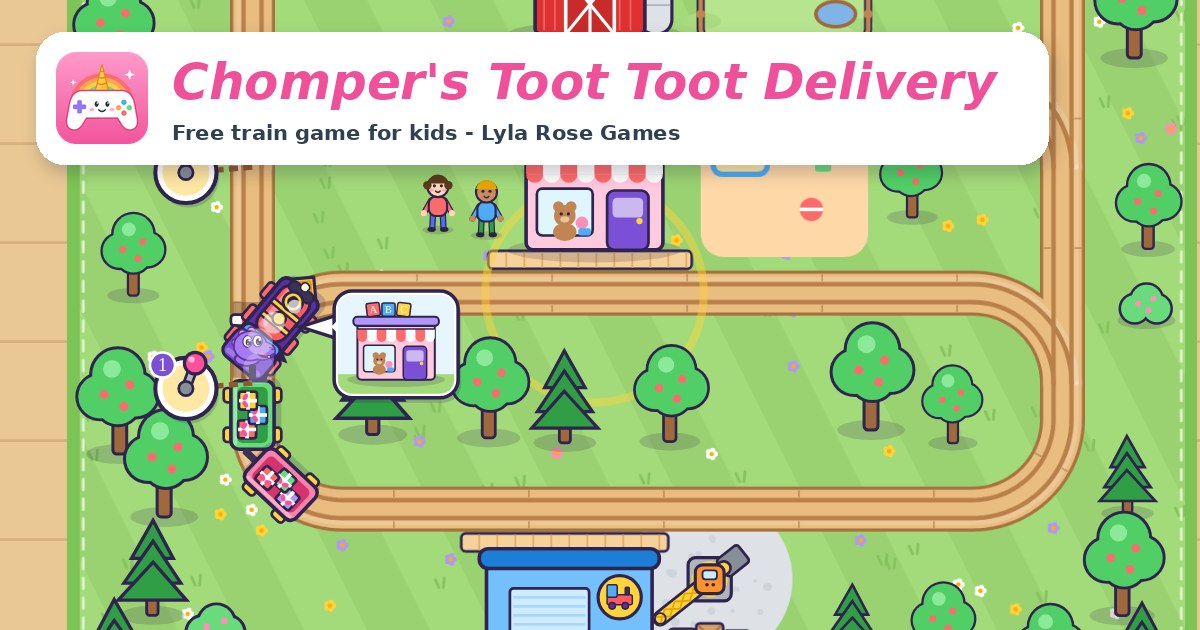
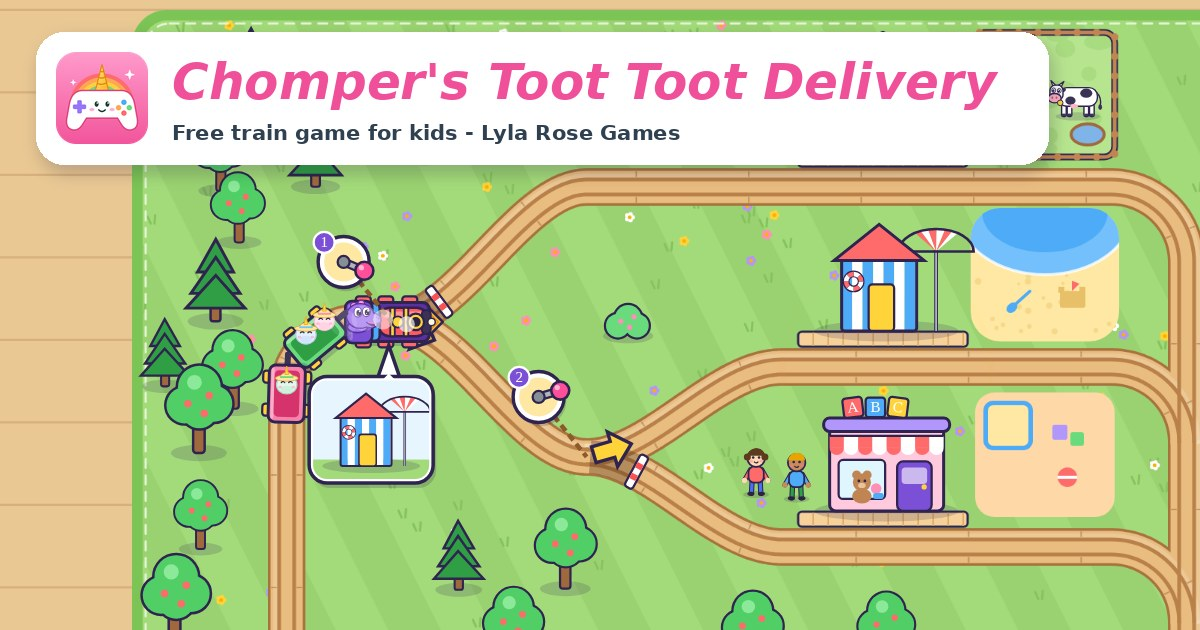
ok

diff --git a/games/chompers-toot-toot/index.html b/games/chompers-toot-toot/index.html
@@ -454,13 +454,18 @@
     bakery: {name: 'Bakery',        cargo: 'Flour',         word: 'Yum!'},
     build:  {name: 'Building Site', cargo: 'Bricks',        word: 'Beep beep!'}
   };
-  // lane 0 is the one furthest from the depot. The first switch the train meets sends it to the last lane.
+  // Each map is a little tree of switches: [up, down] pairs, with a station at the end of every branch.
+  // Stations are listed top to bottom (the "lanes"). Deeper stations need two or three switches set right.
+  const DXB = 260;                              // how far apart the switches are along the track
   const MAPS = [
-    {name: 'Little Loop',    icon: '🐄', lanes: ['farm', 'toys'], L: 860, ex: 0, total: 6},
-    {name: 'Farm and Beach', icon: '🏖', lanes: ['beach', 'farm', 'toys'], L: 900, ex: 0, total: 6},
-    {name: 'Busy Town',      icon: '🚗', lanes: ['zoo', 'beach', 'farm', 'toys'], L: 960, ex: 80, total: 7, crossing: true},
-    {name: 'Big Railway',    icon: '🌉', lanes: ['build', 'bakery', 'zoo', 'beach', 'farm', 'toys'], L: 1060, ex: 160, total: 8, crossing: true, river: true, tunnel: true}
+    {name: 'Little Loop',    icon: '🐄', tree: ['farm', 'toys'], ex: 0, total: 4},
+    {name: 'Farm and Beach', icon: '🏖', tree: ['farm', ['beach', 'toys']], ex: 0, total: 6},
+    {name: 'Busy Town',      icon: '🚗', tree: [['zoo', 'beach'], ['farm', 'toys']], ex: 80, total: 7, crossing: true},
+    {name: 'Big Railway',    icon: '🌉', tree: [[['build', 'bakery'], 'zoo'], ['beach', ['farm', 'toys']]], ex: 120, total: 8, crossing: true, river: true, tunnel: true}
   ];
+  const leavesOf = t => Array.isArray(t) ? t.flatMap(leavesOf) : [t];
+  const depthOf = t => Array.isArray(t) ? 1 + Math.max(...t.map(depthOf)) : 0;
+  MAPS.forEach(M => { M.lanes = leavesOf(M.tree); M.L = 680 + depthOf(M.tree)*DXB; });
   const UL = 206, R = 100, LG = 240, TOP = 236, STEP = 6;
 
   // The track is drawn in "flat" coordinates (u along the lanes, v across them) and then turned to
@@ -478,6 +483,12 @@
         for(let i = 1; i <= n; i++){ const t = i/n*Math.PI/2; pts.push([cx + R*Math.cos(a0 + dir*t), cy + R*Math.sin(a0 + dir*t)]); }
         h += dir*Math.PI/2; u = cx + R*Math.cos(a0 + dir*Math.PI/2); v = cy + R*Math.sin(a0 + dir*Math.PI/2); return P;
       },
+      // a smooth S-bend: forwards du while shifting sideways dv (only used heading along +u)
+      bend(du, dv){
+        const u0 = u, v0 = v, n = Math.max(8, Math.round(Math.hypot(du, dv)*1.15/STEP));
+        for(let i = 1; i <= n; i++){ const t = i/n, a = 3*t*t - 2*t*t*t; pts.push([u0 + du*t, v0 + dv*a]); }
+        u += du; v += dv; return P;
+      },
       pts
     };
     return P;
@@ -494,36 +505,55 @@
     const T = (u, v) => land ? {x: v, y: u} : {x: u, y: v};
     const lay = {mi, n, land, screenLand, WW: land ? Hab : Wab, WH: land ? Wab : Hab, edges: [], nodes: [], switches: [], stations: [], T, UL, UR, VB, vl};
     const node = (id, u, v) => { const p = T(u, v); const nd = {id, x: p.x, y: p.y, outs: []}; lay.nodes[id] = nd; return nd; };
-    // nodes: J(i) are the switches up the left side, M(i) are where the lanes join up on the right
-    const J = i => 'J' + i, Mg = i => 'M' + i;
-    for(let i = 1; i < n; i++){ node(J(i), UL, vl(i) + R); node(Mg(i), UR, vl(i) + R); }
     const edge = (id, path, to, kind, lane) => {
       const pa = path.pts, pts = pa.map(([u, v]) => T(u, v)), cum = [0];
       for(let i = 1; i < pts.length; i++) cum.push(cum[i - 1] + Math.hypot(pts[i].x - pts[i - 1].x, pts[i].y - pts[i - 1].y));
       const e = {id, pa, pts, cum, len: cum[cum.length - 1], to, kind, lane};
       lay.edges[id] = e; return e;
     };
-    const drop = (vl(n - 1) + R), bot = VB - R;
-    edge('trunk', makePath(UR, drop, Math.PI/2).line(bot - drop).arc(1).line(L - 2*R).arc(1).line(bot - drop), J(n - 1), 'trunk');
-    for(let i = n - 1; i >= 2; i--) edge('colL' + i, makePath(UL, vl(i) + R, -Math.PI/2).line(LG), J(i - 1), 'col');
-    for(let i = n - 1; i >= 1; i--) edge('lane' + i, makePath(UL, vl(i) + R, -Math.PI/2).arc(1).line(L - 2*R).arc(1), Mg(i), 'lane', i);
-    edge('lane0', makePath(UL, vl(1) + R, -Math.PI/2).line(LG).arc(1).line(L - 2*R).arc(1).line(LG), Mg(1), 'lane', 0);
+    // the lanes join up again on the right (M nodes), then run down and back along the bottom
+    const Mg = i => 'M' + i;
+    for(let i = 1; i < n; i++) node(Mg(i), UR, vl(i) + R);
     for(let i = 1; i <= n - 2; i++) edge('colR' + i, makePath(UR, vl(i) + R, Math.PI/2).line(LG), Mg(i + 1), 'col');
-    for(let i = 1; i < n; i++){
-      lay.nodes[J(i)].outs = i >= 2 ? ['colL' + i, 'lane' + i] : ['lane0', 'lane1'];
-      lay.nodes[Mg(i)].outs = i <= n - 2 ? ['colR' + i] : ['trunk'];
-    }
-    // the switches, numbered in the order the train meets them
-    for(let i = n - 1; i >= 1; i--){
-      const k = n - i, nd = lay.nodes[J(i)], lv = T(UL - 74, vl(i) + R + 6);
-      nd.sw = k - 1;
+    for(let i = 1; i < n; i++) lay.nodes[Mg(i)].outs = i <= n - 2 ? ['colR' + i] : ['trunk'];
+    // the switch tree: each switch splits into an upper and a lower branch with smooth S-bends
+    const u0 = UL + R + 40, laneEnd = UR - R;
+    let leafI = 0;
+    const place = t => { if(!Array.isArray(t)) return {leaf: t, row: leafI++}; const kids = t.map(place); return {kids, v: 0}; };
+    const root = place(M.tree);
+    const vOf = nd => nd.kids ? (nd.v = (vOf(nd.kids[0]) + vOf(nd.kids[1]))/2) : vl(nd.row);
+    vOf(root);
+    // number the switches in the order the train can meet them (nearest first)
+    const bfs = [root]; for(let i = 0; i < bfs.length; i++) if(bfs[i].kids) bfs[i].kids.forEach(c => c.kids && bfs.push(c));
+    bfs.forEach((nd, i) => { nd.id = 'J' + i; nd.k = i + 1; });
+    const depth = (nd, d) => { nd.d = d; if(nd.kids) nd.kids.forEach(c => depth(c, d + 1)); };
+    depth(root, 0);
+    bfs.forEach(nd => node(nd.id, u0 + nd.d*DXB, nd.v));
+    bfs.forEach(nd => {
+      const us = u0 + nd.d*DXB;
+      nd.kids.forEach(c => {
+        const p = makePath(us, nd.v, 0).bend(DXB, (c.kids ? c.v : vl(c.row)) - nd.v);
+        if(c.kids){ edge('br' + c.id, p, c.id, 'col'); lay.nodes[nd.id].outs.push('br' + c.id); return; }
+        const k = c.row;
+        p.line(laneEnd - (us + DXB)).arc(1);
+        if(k === 0 && n > 1) p.line(LG);
+        edge('lane' + k, p, Mg(Math.max(1, k)), 'lane', k);
+        lay.nodes[nd.id].outs.push('lane' + k);
+      });
+    });
+    const drop = (vl(n - 1) + R), bot = VB - R;
+    edge('trunk', makePath(UR, drop, Math.PI/2).line(bot - drop).arc(1).line(L - 2*R).arc(1).line(bot - (root.v + R)).arc(1).line(u0 - UL - R), root.id, 'trunk');
+    // the switches, each with its lever just behind and above the points
+    bfs.forEach((b, i) => {
+      const nd = lay.nodes[b.id], lv = T(u0 + b.d*DXB - 64, b.v - 80);
+      nd.sw = i;
       const outs = nd.outs.map(id => { const e = lay.edges[id], p = posAt(e, 70); return {id, a: Math.atan2(p.y - nd.y, p.x - nd.x)}; });
-      lay.switches.push({k, node: J(i), lane: i, x: nd.x, y: nd.y, lx: lv.x, ly: lv.y, outs});
-    }
+      lay.switches.push({k: b.k, node: b.id, x: nd.x, y: nd.y, lx: lv.x, ly: lv.y, outs});
+    });
     // where along an edge the track passes a point (u, v)
     const sAt = (e, u, v) => { let best = 0, bd = 1e9; e.pa.forEach(([a, b], i) => { const d = Math.hypot(a - u, b - v); if(d < bd){ bd = d; best = e.cum[i]; } }); return best; };
     // stations: one in the middle of each lane, with a platform, a yard and its building
-    const ust = UL + R + (L - 2*R)*0.40;
+    const ust = UR - R - 300;
     M.lanes.forEach((id, i) => {
       const e = lay.edges['lane' + i], v = vl(i);
       const base = land ? {x: v - 118, y: ust + 76} : {x: ust, y: v - 48};
@@ -1792,7 +1822,7 @@
   function St(g){ g.setTransform(PX, 0, 0, PX, 0, 0); }
   const fitK = () => Math.min(CW/LY.WW, CH/LY.WH)*0.97;
   const phoneK = () => clamp(Math.min(CW, CH)/700, 0.45, 0.8);
-  const followMode = () => fitK() < 0.42;
+  const followMode = () => fitK() < 0.36;
   function viewRect(){ const a = toWorld(0, 0), b = toWorld(CW, CH); return {x0: a.x, y0: a.y, x1: b.x, y1: b.y}; }
   function onScreen(x, y, m = 0){ const X = sx(x), Y = sy(y); return X > -m && X < CW + m && Y > -m && Y < CH + m; }
   let camLock = null;
@@ -1819,7 +1849,11 @@
     cam.x = hw*2 >= LY.WW + M*2 ? LY.WW/2 : clamp(cam.x, hw - M, LY.WW + M - hw);
     cam.y = hh*2 >= LY.WH + M + Mt ? LY.WH/2 + (M - Mt)/2 : clamp(cam.y, hh - Mt, LY.WH + M - hh);
     // keep the panning in step with where the camera can actually go
-    if(followMode()){ pan.x = clamp(pan.x, cam.x - camBase.x - 400, cam.x - camBase.x + 400); pan.y = clamp(pan.y, cam.y - camBase.y - 400, cam.y - camBase.y + 400); }
+    if(followMode()){
+      const x0 = hw - M, x1 = LY.WW + M - hw, y0 = hh - Mt, y1 = LY.WH + M - hh;
+      if(x1 > x0) pan.x = clamp(pan.x, x0 - camBase.x, x1 - camBase.x);
+      if(y1 > y0) pan.y = clamp(pan.y, y0 - camBase.y, y1 - camBase.y);
+    }
   }
 
   // ===== DRAW EVERYTHING =====

diff --git a/games-data.js b/games-data.js
@@ -214,6 +214,7 @@ const games = [
     emoji: "🚂",
     colour: "#D6EEFF",
     thumb: "thumb.jpg",
+    thumbAnim: "thumb-anim.svg",   // gently moving card picture (made from thumb.jpg)
     blurb: "Flick the switches on a toy train set so Chomper's steam train takes milk, toys, bananas and baby unicorns to the right station!",
     categories: ["trains", "dinosaurs", "puzzles"],
     controls: "Tap the switches or keys 1-5, Space to stop and go"

diff --git a/tools/moving-thumbs.py b/tools/moving-thumbs.py
@@ -203,3 +203,12 @@ p.bob(452,448,106,90,dy=-2,dur=.4,delay=.15)
 p.bob(503,268,44,52,dy=-4,dur=.9)
 p.star(300,240,10); p.star(700,470,10,.9); p.star(80,260,9,1.6); p.star(560,90,9,1.2)
 print('building site', p.save())
+
+p=Pic('chompers-toot-toot','steam puffs from the engine, a bobbing delivery bubble, a bouncing arrow, waving kids, a mooing cow and sparkles')
+for d in (0,1.2,2.4): p.add(f'<circle class="puff" style="--l:{d}s" cx="352" cy="228" r="10"/>')
+p.pulse(256,72,122,108,k=1.05,dur=1.4)
+p.bob(230,505,58,58,dy=-6,dur=.8)
+p.bob(432,345,95,68,dy=-4,dur=.7)
+p.bob(738,58,62,58,dy=-3,dur=1.6)
+p.star(600,70,11); p.star(450,250,10,.7); p.star(700,470,10,1.4); p.star(120,450,9,1.9)
+print('toot toot', p.save())
